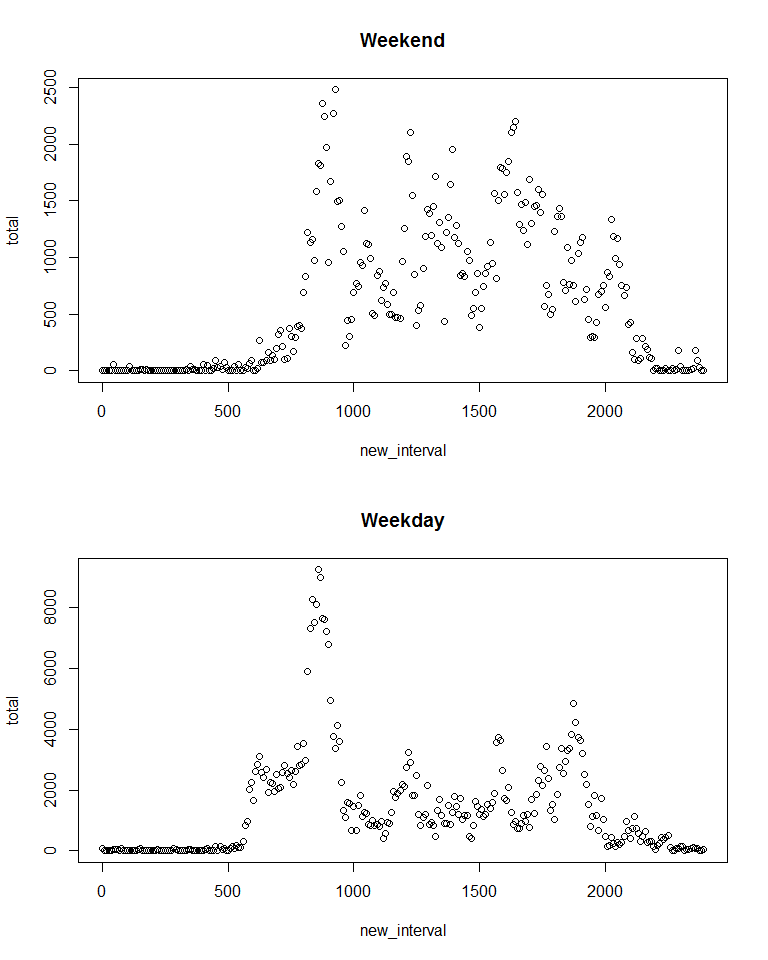
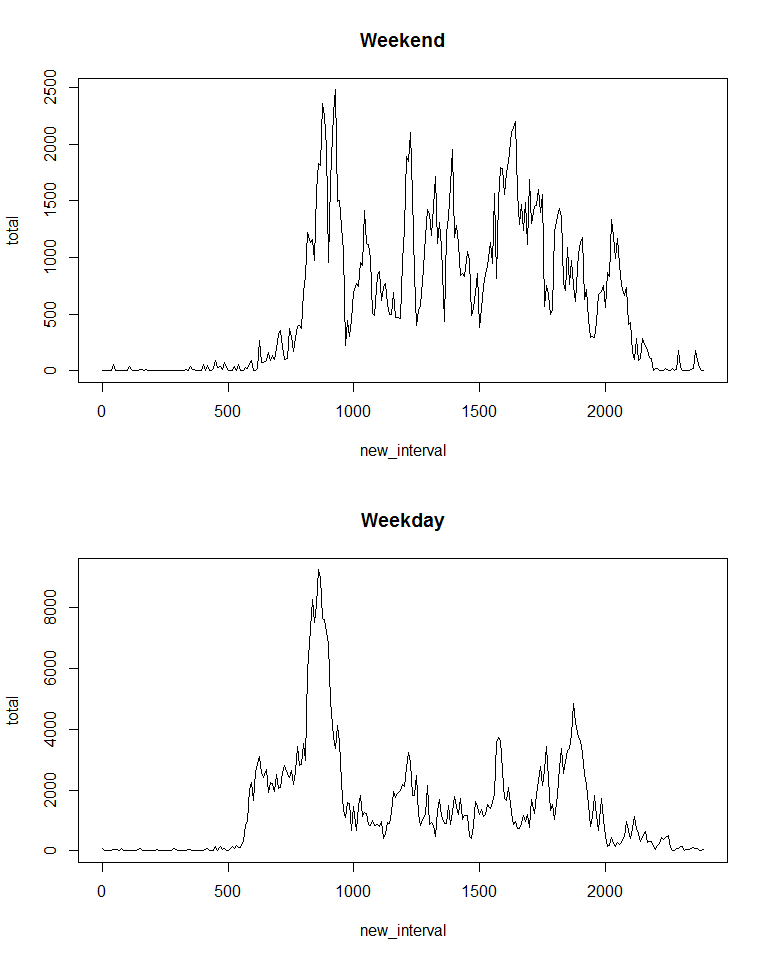
plot changed to lines

diff --git a/PA1_template.html b/PA1_template.html
@@ -114,9 +114,9 @@ activity_alldays&lt;-ddply(activity_alldays,.(date,interval),mutate,new_interval
 activity_weekdays&lt;-ddply(activity_alldays,.(new_interval,weekdayinfo),summarize,total=sum(new_steps))</code></pre>
 <p>Plot is below. There are differences in activity patterns. As you can wee there are more steps in weekend than on weekdays.</p>
 <pre class="r"><code>par(mfrow=c(2,1))
-plot(activity_weekdays[activity_weekdays$weekdayinfo==FALSE,][,c(&quot;new_interval&quot;,&quot;total&quot;)], main=&quot;Weekend&quot;)
-plot(activity_weekdays[activity_weekdays$weekdayinfo==TRUE,][,c(&quot;new_interval&quot;,&quot;total&quot;)], main=&quot;Weekday&quot;)</code></pre>
[1 lines of base64/hex data omitted]
+plot(activity_weekdays[activity_weekdays$weekdayinfo==FALSE,][,c(&quot;new_interval&quot;,&quot;total&quot;)], main=&quot;Weekend&quot;,type='l')
+plot(activity_weekdays[activity_weekdays$weekdayinfo==TRUE,][,c(&quot;new_interval&quot;,&quot;total&quot;)], main=&quot;Weekday&quot;,type='l')</code></pre>
[1 lines of base64/hex data omitted]
 </div>
 
 

diff --git a/PA1_template.md b/PA1_template.md
@@ -134,8 +134,8 @@ Plot is below. There are differences in activity patterns. As you can wee there 
 
 ```r
 par(mfrow=c(2,1))
-plot(activity_weekdays[activity_weekdays$weekdayinfo==FALSE,][,c("new_interval","total")], main="Weekend")
-plot(activity_weekdays[activity_weekdays$weekdayinfo==TRUE,][,c("new_interval","total")], main="Weekday")
+plot(activity_weekdays[activity_weekdays$weekdayinfo==FALSE,][,c("new_interval","total")], main="Weekend",type='l')
+plot(activity_weekdays[activity_weekdays$weekdayinfo==TRUE,][,c("new_interval","total")], main="Weekday",type='l')
 ```
 
 ![](PA1_template_files/figure-html/unnamed-chunk-12-1.png) 
